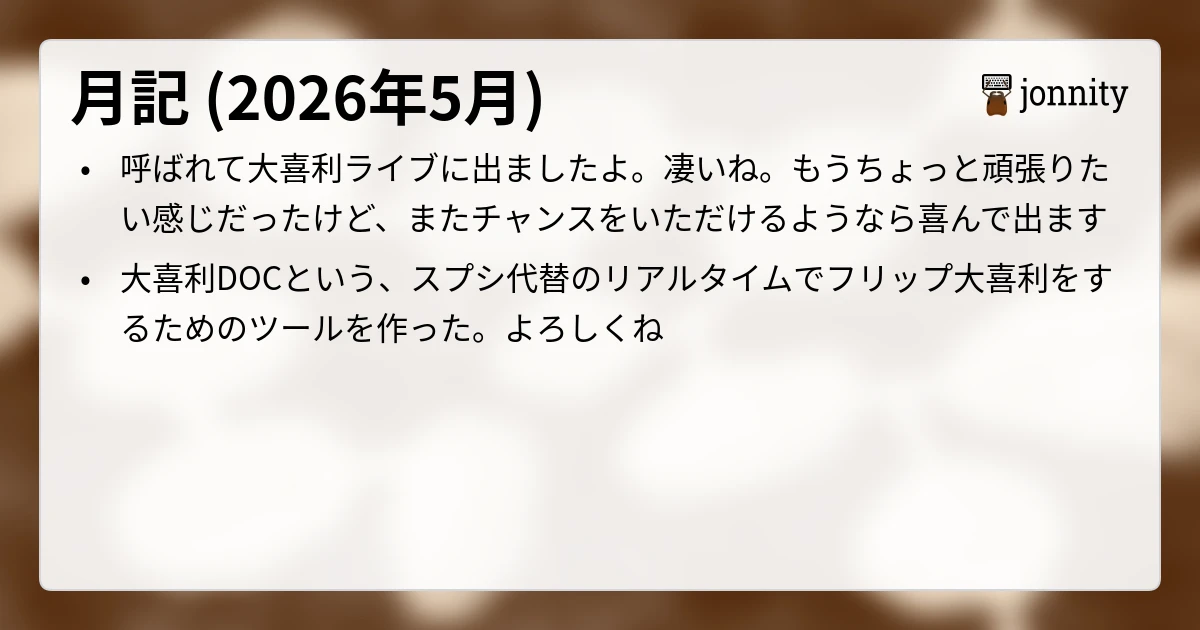
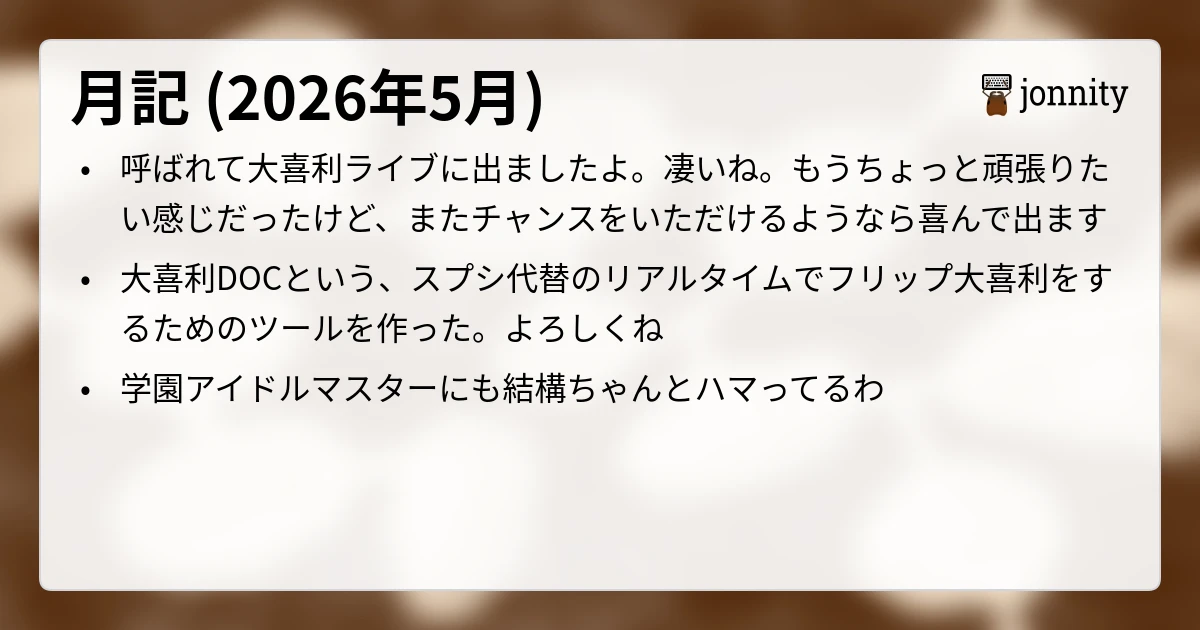
chore: auto-generate monthly OGP thumbnails

Changed region(s): [[0.0925, 0.573, 0.74, 0.6635]]

diff --git a/src/entries/monthly-2026-05.md b/src/entries/monthly-2026-05.md
@@ -7,7 +7,7 @@ tags:
 summary:
   - 呼ばれて大喜利ライブに出ましたよ。凄いね。もうちょっと頑張りたい感じだったけど、またチャンスをいただけるようなら喜んで出ます
   - 大喜利DOCという、スプシ代替のリアルタイムでフリップ大喜利をするためのツールを作った。よろしくね
-  - 学園アイドルマスターにも結構ちゃんとハマってるわ
+  - 学園アイドルマスターにも結構ちゃんとハマってるわ。先日清夏さんの文化祭での晴れ舞台も見てきました。
 thumbnail:
   url: monthly-report-2026-05-thumbnail.webp
   alt: 月記 (2026年05月) のサマリー